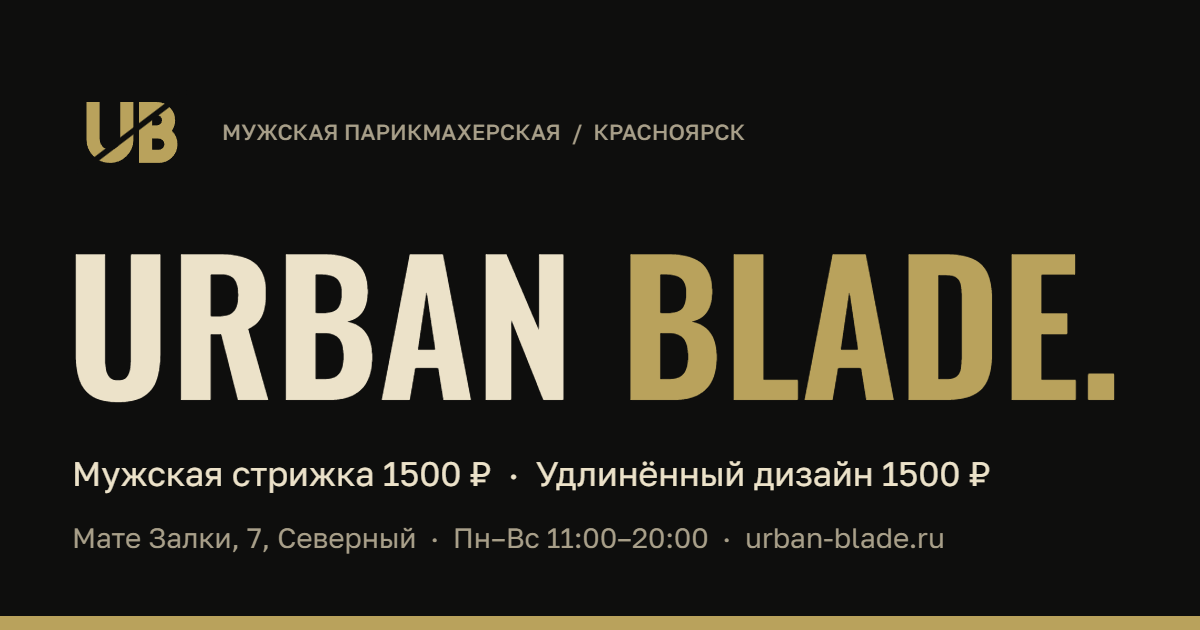
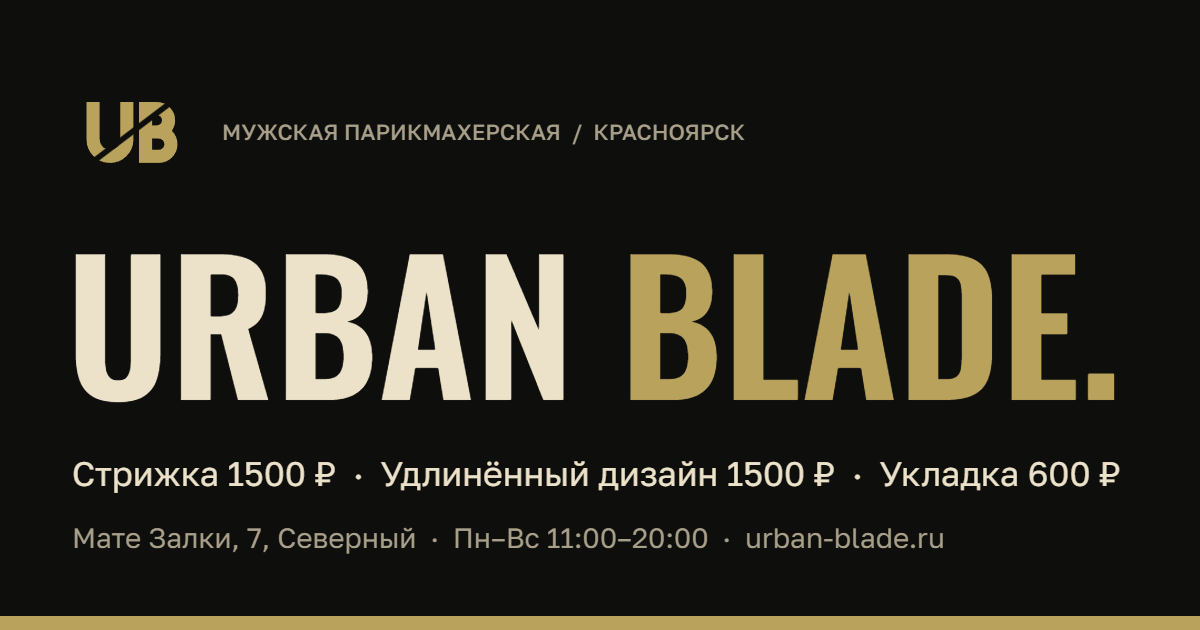
Add files via upload

Changed region(s): [[0.0617, 0.7238, 0.9558, 0.7841]]

diff --git a/index.html b/index.html
@@ -5,14 +5,14 @@
 <meta name="viewport" content="width=device-width, initial-scale=1, viewport-fit=cover">
 <meta name="theme-color" content="#0e0e0d">
 <title>Барбершоп Urban Blade — мужская стрижка в Красноярске, Северный</title>
-<meta name="description" content="Мужская стрижка 1500 ₽, удлинённый дизайн 1500 ₽. Северный, ул. Мате Залки, 7. Ежедневно 11:00–20:00. Онлайн-запись.">
+<meta name="description" content="Мужская стрижка 1500 ₽, удлинённый дизайн 1500 ₽, укладка 600 ₽. Северный, ул. Мате Залки, 7. Ежедневно 11:00–20:00. Онлайн-запись.">
 <link rel="canonical" href="https://urban-blade.ru/">
 <meta property="og:type" content="website">
 <meta property="og:site_name" content="Urban Blade">
 <meta property="og:locale" content="ru_RU">
 <meta property="og:url" content="https://urban-blade.ru/">
 <meta property="og:title" content="Барбершоп Urban Blade — мужская стрижка в Красноярске">
-<meta property="og:description" content="Стрижка 1500 ₽, удлинённый дизайн 1500 ₽. Северный, Мате Залки, 7. Онлайн-запись.">
+<meta property="og:description" content="Стрижка 1500 ₽, удлинённый дизайн 1500 ₽, укладка 600 ₽. Северный, Мате Залки, 7. Онлайн-запись.">
 <meta property="og:image" content="https://urban-blade.ru/og.png">
 <meta property="og:image:width" content="1200">
 <meta property="og:image:height" content="630">
@@ -26,12 +26,12 @@
   "@context": "https://schema.org",
   "@type": "BarberShop",
   "name": "Urban Blade",
-  "description": "Мужская парикмахерская (барбершоп) в Северном: мужские стрижки и удлинённый дизайн.",
+  "description": "Мужская парикмахерская (барбершоп) в Северном: мужские стрижки, удлинённый дизайн и укладка.",
   "url": "https://urban-blade.ru/",
   "logo": "https://urban-blade.ru/icon-512.png",
   "image": "https://urban-blade.ru/og.png",
   "telephone": "+7 964 411-56-53",
-  "priceRange": "1500 ₽",
+  "priceRange": "600–1500 ₽",
   "currenciesAccepted": "RUB",
   "paymentAccepted": "Наличные, перевод с карты",
   "address": {
@@ -53,7 +53,8 @@
     "name": "Услуги",
     "itemListElement": [
       { "@type": "Offer", "price": "1500", "priceCurrency": "RUB", "itemOffered": { "@type": "Service", "name": "Мужская стрижка" } },
-      { "@type": "Offer", "price": "1500", "priceCurrency": "RUB", "itemOffered": { "@type": "Service", "name": "Удлинённый дизайн" } }
+      { "@type": "Offer", "price": "1500", "priceCurrency": "RUB", "itemOffered": { "@type": "Service", "name": "Удлинённый дизайн" } },
+      { "@type": "Offer", "price": "600", "priceCurrency": "RUB", "itemOffered": { "@type": "Service", "name": "Укладка" } }
     ]
   }
 }
@@ -259,7 +260,7 @@ img { display: block; max-width: 100%; }
       </figcaption>
     </figure>
     <div class="lead">
-      <p>Барбершоп в Северном: мужские стрижки и удлинённый дизайн. Улица Мате Залки, 7, Советский район.</p>
+      <p>Барбершоп в Северном: мужские стрижки, удлинённый дизайн и укладка. Улица Мате Залки, 7, Советский район.</p>
       <div class="cta">
         <a class="btn" href="#visit">Записаться <span class="arrow">↗</span></a>
         <div class="cta-row">
@@ -270,6 +271,7 @@ img { display: block; max-width: 100%; }
     </div>
     <ul class="facts label">
       <li>Стрижка 1500 ₽</li>
+      <li>Укладка 600 ₽</li>
       <li>Мате Залки, 7, 2 этаж</li>
       <li>Вход через СДЭК</li>
     </ul>
@@ -282,6 +284,7 @@ img { display: block; max-width: 100%; }
   <ul class="svc">
     <li><a href="#visit"><h3>Мужская стрижка</h3><b class="price">1500 ₽</b><p>Короткие и средние формы под ваш тип волос и привычную укладку.</p><span class="go">Записаться →</span></a></li>
     <li><a href="#visit"><h3>Удлинённый дизайн</h3><b class="price">1500 ₽</b><p>Стрижка для тех, кто носит длину: форма и контур без потери длины.</p><span class="go">Записаться →</span></a></li>
+    <li><a href="#visit"><h3>Укладка</h3><b class="price">600 ₽</b><p>Мытьё головы и укладка феном и стайлингом, чтобы причёска держалась весь день.</p><span class="go">Записаться →</span></a></li>
   </ul>
 </section>
 
